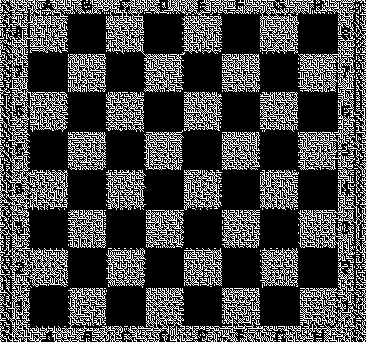
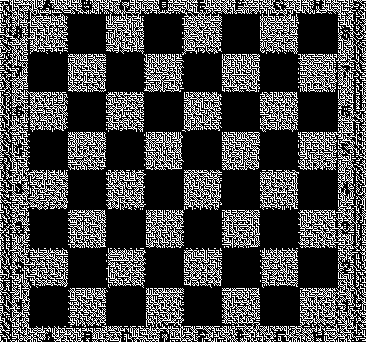
Project cleaned from unnecessary files. Now, all is well!

diff --git a/dither.py b/dither.py
@@ -1,36 +1,47 @@
 import numpy as np
 from PIL import Image
 
+def floyd_steinberg_dithering(input_path):
+    # Resmi yükleyip grayscale'e dönüştürme
+    img = Image.open(input_path).convert('L')
 
-def floyd_steinberg_dithering(image):
-    img = np.array(image, dtype=np.uint8)
-    height, width = img.shape
-    
-    error_matrix = [
-        (1, 0, 7 / 16),
-        (-1, 1, 3 / 16),
-        (0, 1, 5 / 16), 
-        (1, 1, 1 / 16)
-    ]
+    # Görüntüyü numpy dizisine dönüştürme
+    img_array = np.array(img, dtype=np.float32) / 255.0  # 0-1 aralığına normalleştirme
+
+    # Resmin boyutlarını alalım
+    height, width = img_array.shape
+
+    # Floyd-Steinberg Dithering uygulaması
     for y in range(height):
-            for x in range(width):
-                old_pixel = img[y, x]
-                new_pixel = 0 if old_pixel < 128 else 255  # Threshold: 128
-                img[y, x] = new_pixel
+        for x in range(width):
+            old_pixel = img_array[y, x]
+            new_pixel = np.round(old_pixel)
+            img_array[y, x] = new_pixel
+            quant_error = old_pixel - new_pixel
 
-                quant_error = old_pixel - new_pixel  # Kuantizasyon hatası
+            if x < width - 1:
+                img_array[y, x + 1] += quant_error * 7 / 16
+            if y < height - 1 and x > 0:
+                img_array[y + 1, x - 1] += quant_error * 3 / 16
+            if y < height - 1:
+                img_array[y + 1, x] += quant_error * 5 / 16
+            if y < height - 1 and x < width - 1:
+                img_array[y + 1, x + 1] += quant_error * 1 / 16
 
-                # Komşu piksellere hatayı yay
-                for dx, dy, factor in error_matrix:
-                    nx, ny = x + dx, y + dy  # Komşu piksel koordinatları
-                    if 0 <= nx < width and 0 <= ny < height:  # Sınır kontrolü
-                        img[ny, nx] += quant_error * factor
+            # Piksel değerlerini 0 ile 1 arasında tutalım
+            img_array = np.clip(img_array, 0.0, 1.0)
 
-        # Piksel değerlerini 0-255 aralığına çek
-    return Image.fromarray(img.clip(0, 255).astype(np.uint8))
+    # Dithered görüntüyü oluşturma
+    dithered_img = (img_array * 255).astype(np.uint8)
+
+    # Sonucu kaydetme
+    dithered_image = Image.fromarray(dithered_img)
+    #dithered_image.save("dithered_image.png")
+    return dithered_image
 
 
 def jarvis_judice_ninke_dither(image_file):
+
         # Görüntüyü yükle ve gri tonlamaya dönüştür
     if isinstance(image_file, str):  # Eğer dosya yolu ise
         new_img = Image.open(image_file).convert('L')

diff --git a/main.py b/main.py
@@ -1,30 +1,14 @@
-from PIL import Image
-import numpy as np
-from dither import jarvis_judice_ninke_dither
+from dither import jarvis_judice_ninke_dither, floyd_steinberg_dithering
 from generate_shares import *
 
 
 
 if __name__ == "__main__":
-    input_image_path = "/home/esa/Desktop/visual_cryptography/images/chessboard.jpeg"
-    input_image = Image.open(input_image_path).convert("L")
-    image = cv2.imread(input_image_path, cv2.IMREAD_GRAYSCALE)  # Read image in grayscale
-    _, img_array = cv2.threshold(image, 128, 255, cv2.THRESH_BINARY)  # Convert to binary image
-    height, width = img_array.shape
+    input_image = "/home/esa/Desktop/visual_cryptography/images/chessboard.jpeg"
+    
     output_image = jarvis_judice_ninke_dither(input_image)
     output_image.save("output_dithered.jpg")
 
-    # output_dir = "shares"
-    # output_image_array = np.array(output_image)
-
-    # shares = generate_shares_for_three(output_image_array)
-    # save_shares(shares, output_dir)
-
-    # reconstructed = reconstruct_image_for_xor(shares)
-    # reconstructed_image = Image.fromarray(reconstructed)
-    # reconstructed_image.save("reconstructed.png")
-
-    # image_path = r"C:\Users\EmineSudeAslan\Desktop\secret_sharing\images\lena-bw.jpeg"
     imbw, transparency1, transparency2, transparency3 = process_image(output_image)
     combined = combine_shares(transparency1, transparency2, transparency3)
     save_and_show_images(imbw, transparency1, transparency2, transparency3, combined)

diff --git a/README.md b/README.md
@@ -3,17 +3,15 @@
 This project uses Python code for visual cryptography. The first step is to get an image and convert it to grayscale with Floyd-Steinberg dithering.
 The second step the dithered image split into three shares. Finally, these shares will be getting together and reconstructing the original image.
 
-Input can be RGB or Grayscale. At main.py file image turn into grayscale anyway. So dithering function works for both. 
-In this project there are two different functin for dithering. Jarvis Judice Ninke dithering method give more accurate outputs. So this function choosen
+Input can be RGB or Grayscale. At dither.py file image turn into grayscale anyway. So dithering function works for both. 
+In this project there are two different function for dithering. Jarvis Judice Ninke dithering method created more easily. So this function choosen one 
 for use in the main function.
-
-visual_cryptography.py file is the all files in on file. The project coded one file at first. But,
 
 For the modularity, created dither.py and shares.py files.
     * dither.py file just does the dithering part as you can understand looking file' name. 
     
-    * shares.py file does the generating shares, saving shares to the shares directory and reconstructing the dithered image.
+    * generate_shares.py file does the generates shares, saves shares and reconstructs the original image using shares
 
     * main.py file is just main file. We run all functions in it.
 
-Thats all. Thank you.
+Thats all. Thank you. :)
